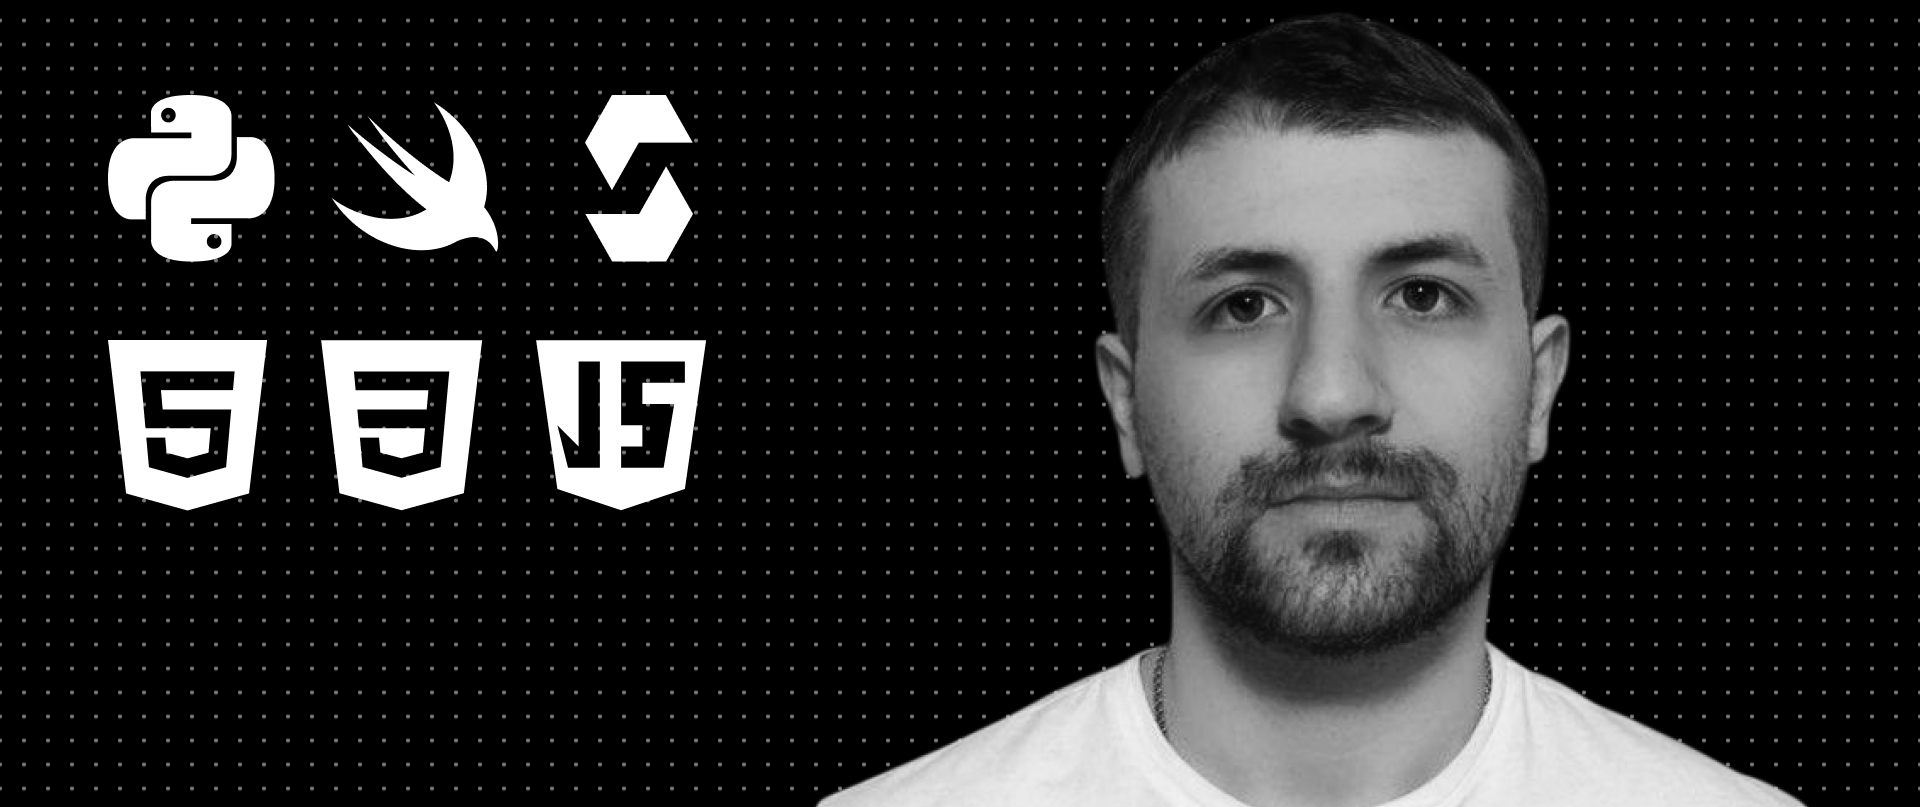
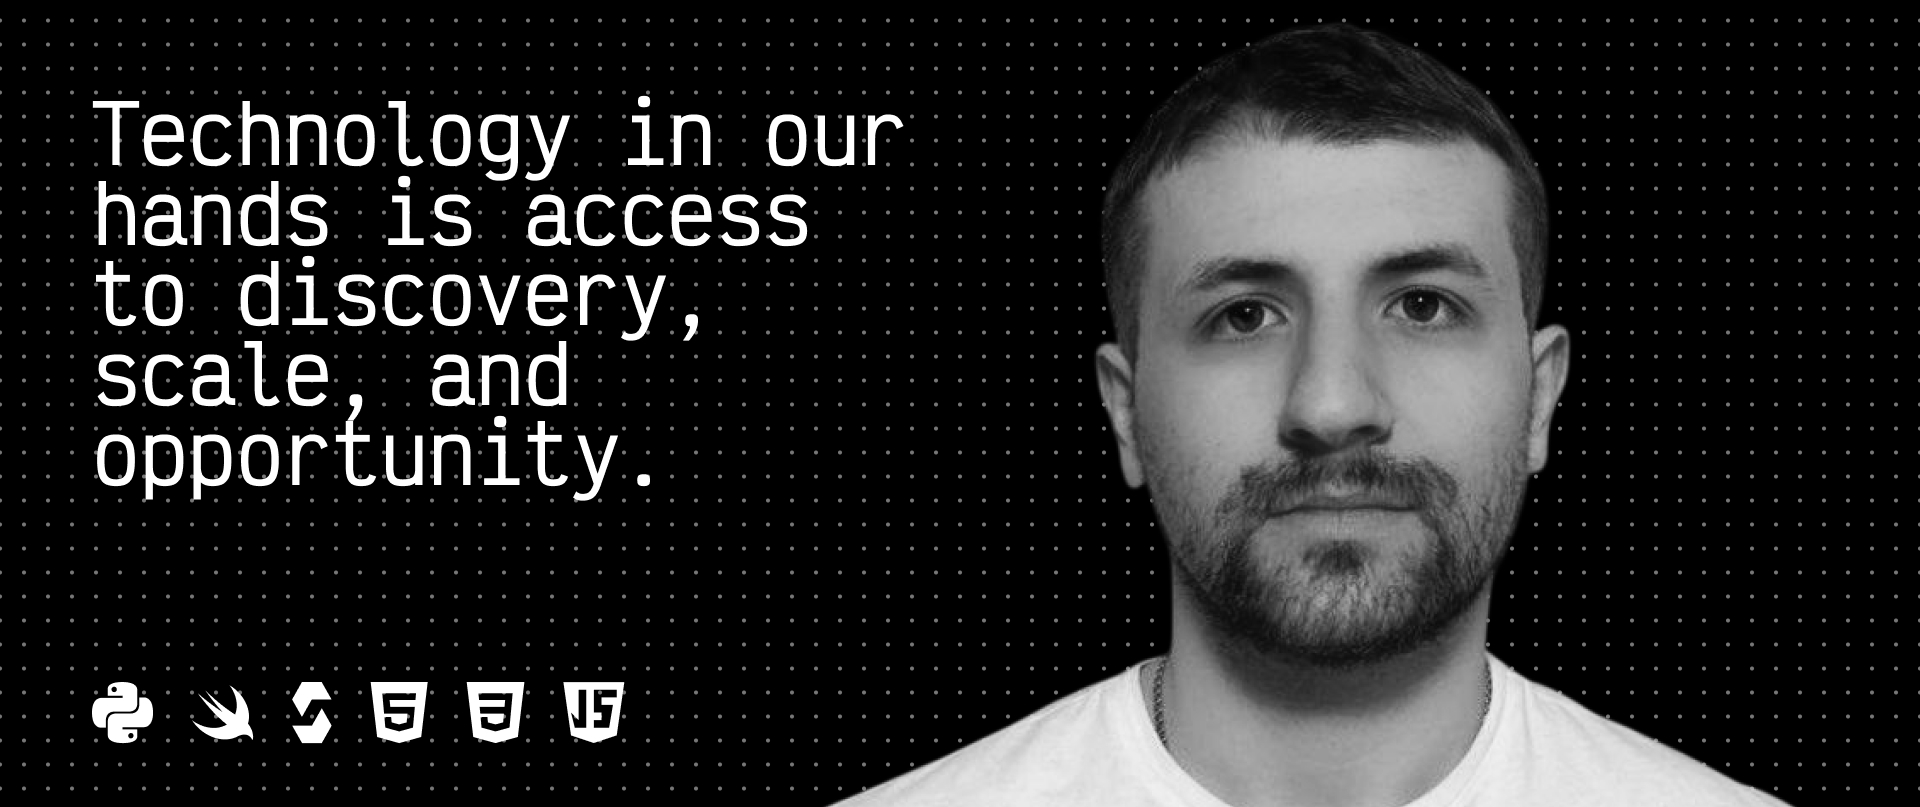
fix(README.md) change photo

diff --git a/README.md b/README.md
@@ -1,5 +1,3 @@
-## Hello 👋
-
 <!--
 **r66cha/r66cha** is a ✨ _special_ ✨ repository because its `README.md` (this file) is present in your GitHub profile.
 
@@ -15,13 +13,12 @@ Here are some ideas to get you started:
 - ⚡ Interesting fact:...
 -->
 
-## About me
+## Ruslan Chukavin / r66cha
 
 ![Me](./public/2888317.jpg)
 
-**Full cycle developer** Web2/Web3\*\*.
+**Full cycle developer** Web2/Web3.
 
-My name is Ruslan Chukavin.
 I am a full-service Web2/Web3 developer specializing in server architecture, mobile applications and protocol development.
 
 I develop **open source projects**:
